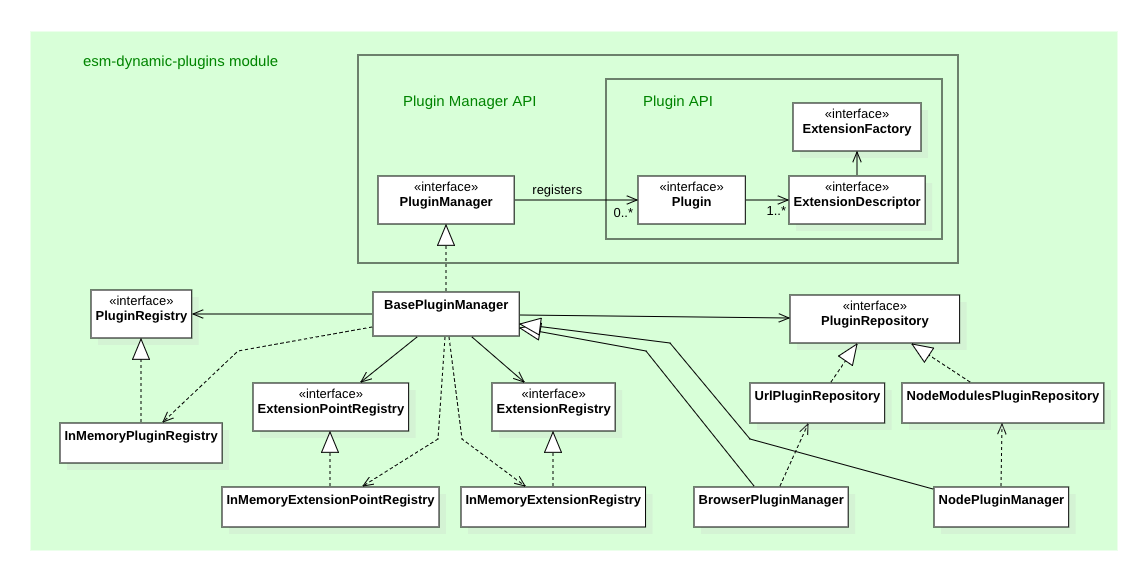
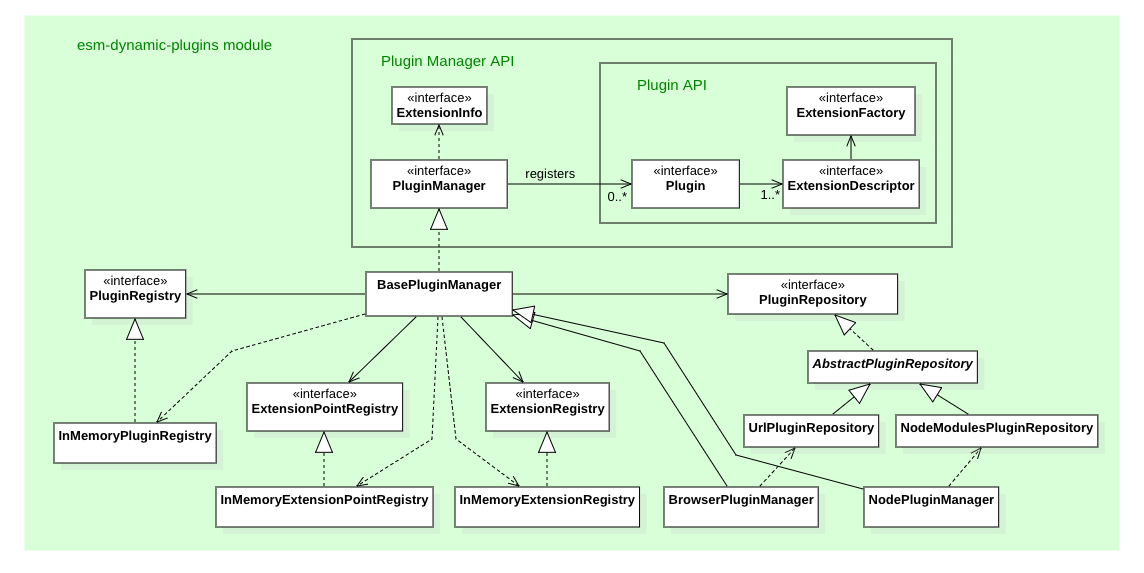
refactor: move duplicated code into base abstract class

diff --git a/src/core/repository/NodeModulesPluginRepository.ts b/src/core/repository/NodeModulesPluginRepository.ts
@@ -7,18 +7,16 @@ import debug from 'debug';
 import fs, { Dirent } from 'fs';
 import path from 'path';
 import Plugin from '../../api/Plugin';
-import PluginRepository from './PluginRepository';
+import AbstractPluginRepository from './AbstractPluginRepository';
 import { loadPlugin } from './PluginLoader';
 
 /**
  * Implementation of a [[PluginRepository]] which loads modules from a `node_modules` local folder
  * containing Node packages with accompanying `package.json` files.
  *
- * A Plugin ID takes the form of a local filesystem path to a Node package.
- *
  * @typeparam EP_ID is the type of the Extension Point IDs used by this plugin manager instance.
  */
-export default class NodeModulesPluginRepository<EP_ID> implements PluginRepository<string, EP_ID> {
+export default class NodeModulesPluginRepository<EP_ID> extends AbstractPluginRepository<EP_ID> {
 
     private readonly log: debug.Debugger = debug('NodeModulesPluginRepository');
 
@@ -45,6 +43,7 @@ export default class NodeModulesPluginRepository<EP_ID> implements PluginReposit
      * @param searchPaths optional array of search paths.
      */
     public constructor(searchPaths?: string[]) {
+        super();
         if (searchPaths) {
             this.searchPaths = searchPaths;
         } else {
@@ -149,8 +148,8 @@ export default class NodeModulesPluginRepository<EP_ID> implements PluginReposit
         }
     }
 
-    private async* pluginGenerator(moduleScope: string | undefined, moduleName: string | undefined,
-        extensionPointId: EP_ID | undefined): AsyncIterable<[string, Plugin<EP_ID>]> {
+    protected async* pluginGenerator(moduleScope: string | undefined, moduleName: string | undefined,
+        extensionPointId: EP_ID | undefined): AsyncIterableIterator<[string, Plugin<EP_ID>]> {
 
         for await (const candidatePath of this.filteredPathGenerator(moduleScope, moduleName)) {
             try {
@@ -174,33 +173,5 @@ export default class NodeModulesPluginRepository<EP_ID> implements PluginReposit
                 this.log(`Discarding error: ${err}`);
             }
         }
-    }
-
-    /**
-     * @inheritdoc
-     */
-    public getAllPlugins(): AsyncIterable<[string, Plugin<EP_ID>]> {
-        return this.pluginGenerator(undefined, undefined, undefined);
-    }
-
-    /**
-     * @inheritdoc
-     */
-    public getPluginsByExtensionPoint(extensionPointId: EP_ID): AsyncIterable<[string, Plugin<EP_ID>]> {
-        return this.pluginGenerator(undefined, undefined, extensionPointId);
-    }
-
-    /**
-     * @inheritdoc
-     */
-    public getPluginsByModuleName(moduleName: string, moduleScope?: string): AsyncIterable<[string, Plugin<EP_ID>]> {
-        return this.pluginGenerator(moduleScope, moduleName, undefined);
-    }
-
-    /**
-     * @inheritdoc
-     */
-    public getPluginsByModuleScope(moduleScope: string): AsyncIterable<[string, Plugin<EP_ID>]> {
-        return this.pluginGenerator(moduleScope, undefined, undefined);
     }
 }

diff --git a/src/core/repository/UrlPluginRepository.ts b/src/core/repository/UrlPluginRepository.ts
@@ -5,7 +5,7 @@
 import _ from 'lodash';
 import debug from 'debug';
 import Plugin from '../../api/Plugin';
-import PluginRepository from './PluginRepository';
+import AbstractPluginRepository from './AbstractPluginRepository';
 import { loadPlugin } from './PluginLoader';
 
 /**
@@ -17,11 +17,9 @@ import { loadPlugin } from './PluginLoader';
  *
  * `https://unpkg.com/@my-scope/my-plugin-module`
  *
- * A Plugin ID takes the form of a URL to a module entry point.
- *
  * @typeparam EP_ID is the type of the Extension Point IDs used by this plugin manager instance.
  */
-export default class UrlPluginRepository<EP_ID> implements PluginRepository<string, EP_ID> {
+export default class UrlPluginRepository<EP_ID> extends AbstractPluginRepository<EP_ID> {
 
     private readonly log: debug.Debugger = debug('UrlPluginRepository');
 
@@ -36,6 +34,7 @@ export default class UrlPluginRepository<EP_ID> implements PluginRepository<stri
      * @param moduleUrls array of module URLs.
      */
     public constructor(moduleUrls: string[]) {
+        super();
         this.moduleUrls = moduleUrls;
     }
 
@@ -71,8 +70,8 @@ export default class UrlPluginRepository<EP_ID> implements PluginRepository<stri
         }
     }
 
-    private async* pluginGenerator(moduleScope: string | undefined, moduleName: string | undefined,
-        extensionPointId: EP_ID | undefined): AsyncIterable<[string, Plugin<EP_ID>]> {
+    protected async* pluginGenerator(moduleScope: string | undefined, moduleName: string | undefined,
+        extensionPointId: EP_ID | undefined): AsyncIterableIterator<[string, Plugin<EP_ID>]> {
 
         for await (const candidateUrl of this.filteredUrlGenerator(moduleScope, moduleName)) {
             try {
@@ -89,33 +88,5 @@ export default class UrlPluginRepository<EP_ID> implements PluginRepository<stri
                 this.log(`Discarding error: ${err}`);
             }
         }
-    }
-
-    /**
-     * @inheritdoc
-     */
-    public getAllPlugins(): AsyncIterable<[string, Plugin<EP_ID>]> {
-        return this.pluginGenerator(undefined, undefined, undefined);
-    }
-
-    /**
-     * @inheritdoc
-     */
-    public getPluginsByExtensionPoint(extensionPointId: EP_ID): AsyncIterable<[string, Plugin<EP_ID>]> {
-        return this.pluginGenerator(undefined, undefined, extensionPointId);
-    }
-
-    /**
-     * @inheritdoc
-     */
-    public getPluginsByModuleName(moduleName: string, moduleScope?: string): AsyncIterable<[string, Plugin<EP_ID>]> {
-        return this.pluginGenerator(moduleScope, moduleName, undefined);
-    }
-
-    /**
-     * @inheritdoc
-     */
-    public getPluginsByModuleScope(moduleScope: string): AsyncIterable<[string, Plugin<EP_ID>]> {
-        return this.pluginGenerator(moduleScope, undefined, undefined);
     }
 }

diff --git a/src/core/repository/AbstractPluginRepository.ts b/src/core/repository/AbstractPluginRepository.ts
@@ -1,0 +1,48 @@
+/**
+ * @module @flowscripter/esm-dynamic-plugins-core
+ */
+
+import Plugin from '../../api/Plugin';
+import PluginRepository from './PluginRepository';
+
+/**
+ * Base implementation of an abstract [[PluginRepository] which relies on a sub-class implementation of
+ * [[pluginGenerator]].
+ *
+ * A Plugin ID takes the form of a URL to a module entry point.
+ *
+ * @typeparam EP_ID is the type of the Extension Point IDs used by this plugin manager instance.
+ */
+export default abstract class AbstractPluginRepository<EP_ID> implements PluginRepository<string, EP_ID> {
+
+    protected abstract pluginGenerator(moduleScope: string | undefined, moduleName: string | undefined,
+        extensionPointId: EP_ID | undefined): AsyncIterableIterator<[string, Plugin<EP_ID>]>;
+
+    /**
+     * @inheritdoc
+     */
+    public getAllPlugins(): AsyncIterable<[string, Plugin<EP_ID>]> {
+        return this.pluginGenerator(undefined, undefined, undefined);
+    }
+
+    /**
+     * @inheritdoc
+     */
+    public getPluginsByExtensionPoint(extensionPointId: EP_ID): AsyncIterable<[string, Plugin<EP_ID>]> {
+        return this.pluginGenerator(undefined, undefined, extensionPointId);
+    }
+
+    /**
+     * @inheritdoc
+     */
+    public getPluginsByModuleName(moduleName: string, moduleScope?: string): AsyncIterable<[string, Plugin<EP_ID>]> {
+        return this.pluginGenerator(moduleScope, moduleName, undefined);
+    }
+
+    /**
+     * @inheritdoc
+     */
+    public getPluginsByModuleScope(moduleScope: string): AsyncIterable<[string, Plugin<EP_ID>]> {
+        return this.pluginGenerator(moduleScope, undefined, undefined);
+    }
+}
